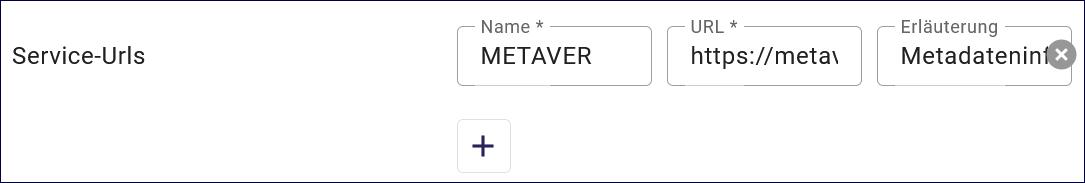
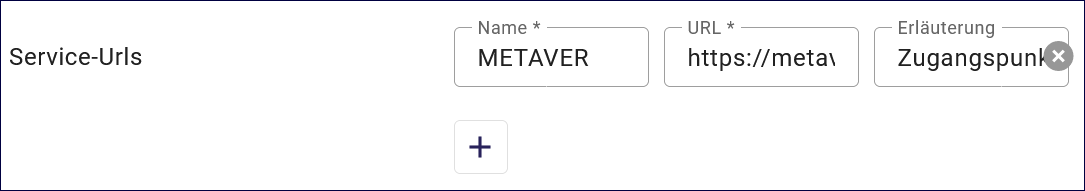
Aktualisierung

diff --git a/docs/ingrid-editor/erfassung/datensatztypen/datensatztyp-informationssystem.rst b/docs/ingrid-editor/erfassung/datensatztypen/datensatztyp-informationssystem.rst
@@ -122,7 +122,7 @@ Beispiel: Das Informationssystem enthält umweltbezogene Daten und Geodaten der 
 
 Zusätzliche Anmerkungen zu dem beschriebenen Dienst, der Anwendung oder dem Informationssystem. Hier können zusätzliche Informationen, z.B. technischer Art, gegeben werden, die für das Verständnis des Dienstes, der Anwendung, des Informationssystems erforderlich sind.
 
-Beispiel: Der Datensatz ist eine CSV-Datei, die alle Grundwassermessstellen mit Lage und Kennung enthält.
+Beispiel: Die erfassten Daten werden über den Suchdienst Catalogue Service for the Web (CSW) an andere Datenbanken/Portale übergeben.
 
 
 Feld: Service-URLs
@@ -133,9 +133,10 @@ Feld: Service-URLs
    :scale: 50
    :figwidth: 100%
 
-Abb.: Feldder - Service-URLs
+Abb.: Felder - Service-URLs
 
 Angaben zu der Zugriffsadresse auf den Dienst oder der Anwendung. Es soll der Name und der URL sowie eine kurzen Erläuterung zu der Adresse angegeben werden.
+
 Beispiel:
 
-Name: METAVER; URL: http://www.metaver.de; Erläuterung: Zugangspunkt zu Metadaten
+Name: METAVER; URL: https://www.metaver.de; Erläuterung: Zugangspunkt zu Metadaten
